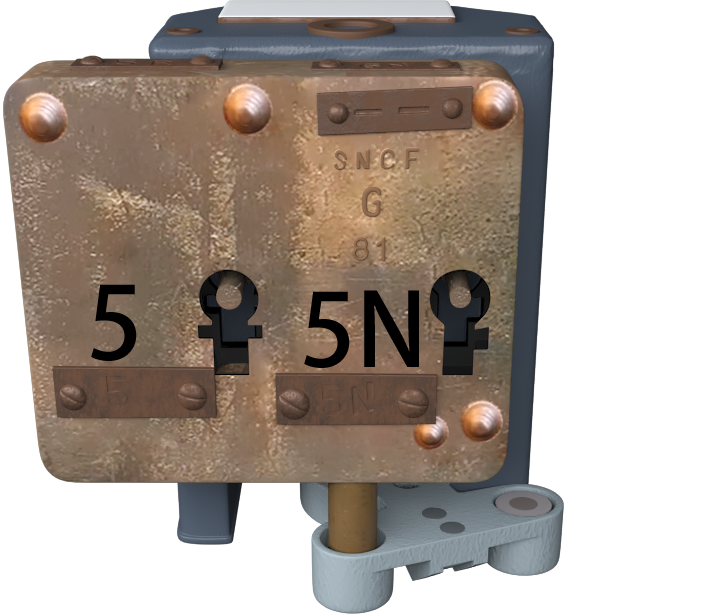
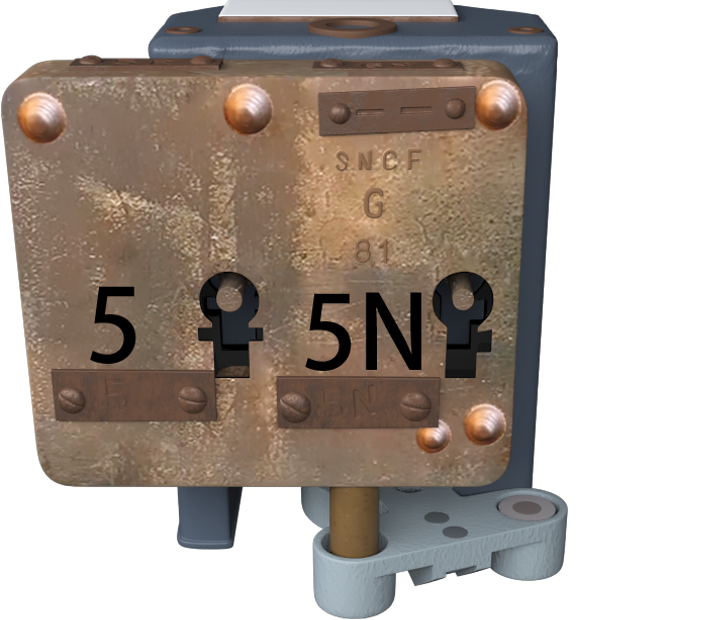
Constraints on rotating keys, lever/holder image upgrades

diff --git a/root/src/js/config/holderConfig.js b/root/src/js/config/holderConfig.js
@@ -1,5 +1,69 @@
 var holderLockStateMap;
 var exactKeyMap;
+var holderLockStateImageMap;
+var holderUnlockStateImageMap;
+var defaultHolderSourceMap;
+var switchedHolderSourceMap;
+
+function defaultHolderImageSetup(){
+    defaultHolderSourceMap = new Map();
+    defaultHolderSourceMap.set('upperL3KeyHolderAN', 'assets/PNG/AN_Left_Unlocked.png');
+    defaultHolderSourceMap.set('upperL4KeyHolderAN', 'assets/PNG/AN_Left_Unlocked.png');
+    defaultHolderSourceMap.set('upperL5KeyHolder', 'assets/PNG/5_5N_Right_Unlocked.png');
+    defaultHolderSourceMap.set('upperL6KeyHolder5', 'assets/PNG/5_Left_Unlocked.png');
+    defaultHolderSourceMap.set('lowerL2KeyHolderAN', 'assets/PNG/A1_F_Left_Unlocked.png');
+    defaultHolderSourceMap.set('lowerL3KeyHolder', 'assets/PNG/C111_V3_F_Left_Unlocked.png');
+    defaultHolderSourceMap.set('lowerL4KeyHolder', 'assets/PNG/C111_V1_F_Left_Unlocked.png');
+    defaultHolderSourceMap.set('lowerL5KeyHolder', 'assets/PNG/Ag5_D_Right_Unlocked.png');
+    defaultHolderSourceMap.set('lowerL6KeyHolder6N', 'assets/PNG/V6_L_Left_Unlocked.png');
+    defaultHolderSourceMap.set('upperL7KeyHolder5', '');
+}
+
+function switchedHolderImageSetup(){
+    switchedHolderSourceMap = new Map();
+    switchedHolderSourceMap.set('upperL3KeyHolderAN', 'assets/PNG/AN_Right_Unlocked.png');
+    switchedHolderSourceMap.set('upperL4KeyHolderAN', 'assets/PNG/AN_Right_Unlocked.png');
+    switchedHolderSourceMap.set('upperL5KeyHolder', 'assets/PNG/5_5N_Left_Unlocked.png');
+    switchedHolderSourceMap.set('upperL6KeyHolder5', 'assets/PNG/5_Right_Unlocked.png');
+    switchedHolderSourceMap.set('lowerL2KeyHolderAN', 'assets/PNG/A1_O_Right_Unlocked.png');
+    switchedHolderSourceMap.set('lowerL3KeyHolder', 'assets/PNG/C111_V3_O_Right_Unlocked.png');
+    switchedHolderSourceMap.set('lowerL4KeyHolder', 'assets/PNG/C111_V1_O_Right_Unlocked.png');
+    switchedHolderSourceMap.set('lowerL5KeyHolder', 'assets/PNG/Ag5_G_Left_Unlocked.png');
+    switchedHolderSourceMap.set('lowerL6KeyHolder6N', 'assets/PNG/V6_R_Right_Unlocked.png');
+    switchedHolderSourceMap.set('upperL7KeyHolder5', '');
+}
+
+function setupHolderLockStateImage(){
+    console.log('Holder Lock State Image Map Setup Begins');
+    holderLockStateImageMap = new Map();
+    holderLockStateImageMap.set('upperL3KeyHolderAN', 'assets/PNG/AN_Right_Locked.png');
+    holderLockStateImageMap.set('upperL4KeyHolderAN', 'assets/PNG/AN_Right_Locked.png');
+    holderLockStateImageMap.set('upperL5KeyHolder', 'assets/PNG/5_5N_Right_Locked.png');
+    holderLockStateImageMap.set('upperL6KeyHolder5', 'assets/PNG/5_Right_Locked.png');
+    holderLockStateImageMap.set('lowerL2KeyHolderAN', 'assets/PNG/A1_F_Left_Locked.png');
+    holderLockStateImageMap.set('lowerL3KeyHolder', 'assets/PNG/C111_V3_F_Left_Locked.png');
+    holderLockStateImageMap.set('lowerL4KeyHolder', 'assets/PNG/C111_V1_F_Left_Locked.png');
+    holderLockStateImageMap.set('lowerL5KeyHolder', 'assets/PNG/Ag5_G_Left_Locked.png');
+    holderLockStateImageMap.set('lowerL6KeyHolder6N', 'assets/PNG/V6_L_Left_Locked.png');
+    holderLockStateImageMap.set('upperL7KeyHolder5', '');
+    console.log('Holder Lock State Image Map Setup Ends');
+}
+
+function setupHolderUnlockStateImage() {
+    console.log('Holder Unlock State Map Setup Begins');
+    holderUnlockStateImageMap = new Map();
+    holderUnlockStateImageMap.set('upperL3KeyHolderAN', 'assets/PNG/AN_Right_Unlocked.png');
+    holderUnlockStateImageMap.set('upperL4KeyHolderAN', 'assets/PNG/AN_Right_Unlocked.png');
+    holderUnlockStateImageMap.set('upperL5KeyHolder', 'assets/PNG/5_5N_Right_Unlocked.png');
+    holderUnlockStateImageMap.set('upperL6KeyHolder5', 'assets/PNG/5_Right_Unlocked.png');
+    holderUnlockStateImageMap.set('lowerL2KeyHolderAN', 'assets/PNG/A1_F_Left_Unlocked.png');
+    holderUnlockStateImageMap.set('lowerL3KeyHolder', 'assets/PNG/C111_V3_F_Left_Unlocked.png');
+    holderUnlockStateImageMap.set('lowerL4KeyHolder', 'assets/PNG/C111_V1_F_Left_Unlocked.png');
+    holderUnlockStateImageMap.set('lowerL5KeyHolder', 'assets/PNG/Ag5_G_Left_Unlocked.png');
+    holderUnlockStateImageMap.set('lowerL6KeyHolder6N', 'assets/PNG/V6_L_Left_Unlocked.png');
+    holderUnlockStateImageMap.set('upperL7KeyHolder5', '');
+    console.log('Holder Unlock State Map Setup Ends');
+}
 
 function setupDefaultHolderLockState() {
     console.log('Holder Lock State Map Setup Begins');

diff --git a/root/src/Main.html b/root/src/Main.html
@@ -340,17 +340,17 @@
         <div id="levercontainer" class="container-fluid">
             <div id="leverRow" class="row justify-content-center" style="background-color: white;">
                 <div id="lever1ContainerAuA" class="col-2 container-fluid">
-                    <img id="lowerL1" onclick="changeLeverPosition('lever1AuA')" src="assets/PNG/Au_A_A.png" class="customWidth1 col-12 mx-auto d-block">
+                    <img id="lowerL1" src="assets/PNG/Au_A_A.png" class="customWidth1 col-12 mx-auto d-block">
                 </div>
                 <div id="lever2ContainerA1" class="col-2 container-fluid">
-                    <img id="lowerL2KeyHolderAN" onclick="changeLeverPosition('lever2A1')" src="assets/PNG/A1_F.png" class="customWidth1 col-12 mx-auto d-block"
+                    <img id="lowerL2KeyHolderAN" onclick="changeLeverPosition('lever2A1')" src="assets/PNG/A1_F_Left_Locked.png" class="customWidth1 col-12 mx-auto d-block"
                             ondrop="dragDrop(event)" ondragover="allowDrop(event)"> 
                     <img id="lowerL2KeyAN" src="assets/PNG/1_H_3.png" class="img-fluid" 
                             ondragstart="dragStart(event)"
                             onclick="rotateKey(event)">
                 </div>
                 <div id="lever3ContainerC111" class="col-2 container-fluid">
-                    <img id="lowerL3KeyHolder" onclick="changeLeverPosition('lever3C111')" src="assets/PNG/C111_V3_F.png" class="customWidth1 col-12 mx-auto d-block"
+                    <img id="lowerL3KeyHolder" onclick="changeLeverPosition('lever3C111')" src="assets/PNG/C111_V3_F_Left_Locked.png" class="customWidth1 col-12 mx-auto d-block"
                             ondrop="dragDrop(event)" ondragover="allowDrop(event)">
                     <img id="lowerL3Key5R" src="assets/PNG/2_F_5.png" class="img-fluid" 
                             ondragstart="dragStart(event)"
@@ -360,7 +360,7 @@
                         onclick="rotateKey(event)">
                 </div>
                 <div id="lever4ContainerC111" class="col-2 container-fluid">
-                    <img id="lowerL4KeyHolder" onclick="changeLeverPosition('lever4C111')" src="assets/PNG/C111_V1_F.png" class="customWidth1 col-12 mx-auto d-block"
+                    <img id="lowerL4KeyHolder" onclick="changeLeverPosition('lever4C111')" src="assets/PNG/C111_V1_F_Left_Locked.png" class="customWidth1 col-12 mx-auto d-block"
                             ondrop="dragDrop(event)" ondragover="allowDrop(event)">
                     <img id="lowerL4Key5N" src="assets/PNG/1_D_5.png" class="img-fluid" 
                             ondragstart="dragStart(event)"
@@ -370,7 +370,7 @@
                             onclick="rotateKey(event)">
                 </div>
                 <div id="lever5ContainerAg5" class="col-2 container-fluid">
-                    <img id="lowerL5KeyHolder" onclick="changeLeverPosition('lever5Ag5')" src="assets/PNG/Ag5_D.png" class="customWidth1 col-12 mx-auto d-block"
+                    <img id="lowerL5KeyHolder" onclick="changeLeverPosition('lever5Ag5')" src="assets/PNG/Ag5_D_Right_Unlocked.png" class="customWidth1 col-12 mx-auto d-block"
                             ondrop="dragDrop(event)" ondragover="allowDrop(event)">  
                     <img id="lowerL5Key5" src="assets/PNG/1_J_1.png" class="img-fluid" 
                             ondragstart="dragStart(event)"
@@ -380,7 +380,7 @@
                             onclick="rotateKey(event)">    
                 </div>
                 <div id="lever6ContainerV6" class="col-2 container-fluid">
-                    <img id="lowerL6KeyHolder6N" onclick="changeLeverPosition('lever6V6')" src="assets/PNG/V6_L.png" class="customWidth1 col-12 mx-auto d-block"
+                    <img id="lowerL6KeyHolder6N" onclick="changeLeverPosition('lever6V6')" src="assets/PNG/V6_L_Left_Locked.png" class="customWidth1 col-12 mx-auto d-block"
                             ondrop="dragDrop(event)" ondragover="allowDrop(event)">
                     <img id="lowerL6Key6N" src="assets/PNG/3_J_5.png" class="img-fluid" 
                             ondragstart="dragStart(event)"

diff --git a/root/src/js/keyFunctions.js b/root/src/js/keyFunctions.js
@@ -41,19 +41,26 @@ function rotateAndEnableKey(keyId){
     * */
 
     // Check if you can lock this holder. i.e., the respective lever's other holder needs to be in unlocked state to lock current holder
-    rotateElement(keyId,75);
-
-    keyAvailabilityMap.set(keyId,true);
-    addClass(keyId,'dragEnabled');
     var holderId = getHolderIdForKey(keyId);
     if(holderId == UNAVAILABLE){
         console.log('Key ' + keyId + ' is not available in any holders');
     } else{    
+        //How to check if the current holder is in its right(upper) or left(lower) position?
+        var holderIdLower = holderId.toLowerCase();
+        var holderImageLower = getSourceImage(holderId).toLowerCase();
+        if((holderIdLower.includes('upper') && holderImageLower.includes('right')) || (holderIdLower.includes('lower') && holderImageLower.includes('left'))){
+            rotateElement(keyId,75);
+            keyAvailabilityMap.set(keyId,true);
+            addClass(keyId,'dragEnabled');
+        } else{
+            launchModal(`This key cannot be rotated in this position. Move the lever to lock this lock.`);
+            console.log(`Key ${keyId} cannot be rotated in this position. Move the lever to lock this lock.`);
+        }
         if(checkHolderKeysUnlockStatus(holderId)){
             console.log('Few keys are draggable. Holder ' + holderId + ' can be locked.');
             lockHolder(holderId);
         } else{
-            console.log('Holder ' + holderId + ' cannot be locked. None of the keys for this holder are in available state.');
+            console.log(`Holder ${holderId} cannot be locked. None of the keys for this holder are in available state.`);
         }
     }
 }
@@ -62,13 +69,13 @@ function rotateAndDisableKey(keyId){
     /** This method rotates the key to horizontal position, disables the draggability of a key and sets the availability as false in keyAvailabilityMap.
     * Also unlocks the holder if circumstances are met.
     * */
-    rotateElement(keyId,180);
-    keyAvailabilityMap.set(keyId,false); 
-    removeClass(keyId,'dragEnabled');
     var holderId = getHolderIdForKey(keyId);
     if(holderId == UNAVAILABLE){
         console.log('Key ' + keyId + ' is not available in any holders');
     }else{    
+        rotateElement(keyId,180);
+        keyAvailabilityMap.set(keyId,false); 
+        removeClass(keyId,'dragEnabled');
         if(checkHolderKeysLockStatus(holderId)){
             console.log('No keys are available for dragging. Holder ' + holderId + 'can be unlocked.');
             unlockHolder(holderId);

diff --git a/root/src/js/config/leverConfig.js b/root/src/js/config/leverConfig.js
@@ -31,22 +31,22 @@ function initializeDefaultLeverStates(){
 function defaultLeverImageSetup(){
     leverDefaultSourceMap = new Map();
     leverDefaultSourceMap.set('lever1AuA','assets/PNG/Au_A_I.png');
-    leverDefaultSourceMap.set('lever2A1','assets/PNG/A1_F.png');
-    leverDefaultSourceMap.set('lever3C111','assets/PNG/C111_V3_F.png');
-    leverDefaultSourceMap.set('lever4C111','assets/PNG/C111_V1_F.png');
-    leverDefaultSourceMap.set('lever5Ag5','assets/PNG/Ag5_D.png');
-    leverDefaultSourceMap.set('lever6V6','assets/PNG/V6_L.png');
+    leverDefaultSourceMap.set('lever2A1','assets/PNG/A1_F_Left_Locked.png');
+    leverDefaultSourceMap.set('lever3C111','assets/PNG/C111_V3_F_Left_Locked.png');
+    leverDefaultSourceMap.set('lever4C111','assets/PNG/C111_V1_F_Left_Locked.png');
+    leverDefaultSourceMap.set('lever5Ag5','assets/PNG/Ag5_D_Right_Unlocked.png');
+    leverDefaultSourceMap.set('lever6V6','assets/PNG/V6_L_Left_Locked.png');
     leverDefaultSourceMap.set('leverSideTrack','');
 }
 
 function switchedLeverImageSetup(){
     leverSwitchedSourceMap = new Map();
     leverSwitchedSourceMap.set('lever1AuA','assets/PNG/Au_A_A.png');
-    leverSwitchedSourceMap.set('lever2A1','assets/PNG/A1_O.png');
-    leverSwitchedSourceMap.set('lever3C111','assets/PNG/C111_V3_O.png');
-    leverSwitchedSourceMap.set('lever4C111','assets/PNG/C111_V1_O.png');
-    leverSwitchedSourceMap.set('lever5Ag5','assets/PNG/Ag5_G.png');
-    leverSwitchedSourceMap.set('lever6V6','assets/PNG/V6_R.png');
+    leverSwitchedSourceMap.set('lever2A1','assets/PNG/A1_O_Right_Unlocked.png');
+    leverSwitchedSourceMap.set('lever3C111','assets/PNG/C111_V3_O_Right_Unlocked.png');
+    leverSwitchedSourceMap.set('lever4C111','assets/PNG/C111_V1_O_Right_Unlocked.png');
+    leverSwitchedSourceMap.set('lever5Ag5','assets/PNG/Ag5_G_Left_Unlocked.png');
+    leverSwitchedSourceMap.set('lever6V6','assets/PNG/V6_R_Right_Unlocked.png');
     leverSwitchedSourceMap.set('leverSideTrack','');
 }
 

diff --git a/root/src/js/leverFunctions.js b/root/src/js/leverFunctions.js
@@ -22,15 +22,26 @@ function changeLeverPosition(leverId){
     if(checkLeverLockStatus(leverId)){
         console.log('Lever ' + leverId + ' is locked. Unable to switch.');
     } else{
+        var holderArray = leverHolderMap.get(leverId);
         if(leverStateMap.get(leverId) == true){
             var switchImageSource = leverSwitchedSourceMap.get(leverId);
             leverStateMap.set(leverId,false);
             changeSourceImage(leverNameMap.get(leverId),switchImageSource);
+            if(holderArray.length > 0){
+              for(i=0; i<holderArray.length; i++){
+                changeSourceImage(holderArray[i],switchedHolderSourceMap.get(holderArray[i]));
+              }
+            }
             leverOnAction(leverId);
         } else {
             var defaultImageSource = leverDefaultSourceMap.get(leverId);
             leverStateMap.set(leverId,true);
             changeSourceImage(leverNameMap.get(leverId),defaultImageSource);
+            if(holderArray.length > 0){
+              for(i=0; i<holderArray.length; i++){
+                changeSourceImage(holderArray[i],defaultHolderSourceMap.get(holderArray[i]));
+              }
+            }
             leverOffAction(leverId);
         }
     }
@@ -113,7 +124,7 @@ function turnLever2A1On(){
     changeSourceImage('led-a1','assets/PNG/A1_ON_State.png');
     ledStateMap.set('led-a1','Orange');
     trainAppear();
-    launchModal("Signal enabled without selecting proper track");
+    // launchModal("Signal enabled without selecting proper track");
 }
 
 function turnLever2A1Off(){

diff --git a/root/src/js/holderFunctions.js b/root/src/js/holderFunctions.js
@@ -39,6 +39,9 @@ function lockHolder(holderId){
   /* This method locks the holder by setting the state in holder lock state map. */
   /** To add logic for checking lever position before locking the holder */
   holderLockStateMap.set(holderId,true);
+  if(holderId != 'upperL7KeyHolder5'){
+    changeSourceImage(holderId, holderLockStateImageMap.get(holderId));
+  }
   console.log('Holder ' + holderId + ' is locked.');
 }
 
@@ -48,6 +51,8 @@ function unlockHolder(holderId){
   holderLockStateMap.set(holderId,false);
   if(holderId == 'upperL7KeyHolder5'){
     leftTrackChange();
+  } else{
+    changeSourceImage(holderId,holderUnlockStateImageMap.get(holderId));
   }
   console.log('Holder ' + holderId + ' is unlocked.');
 }

diff --git a/root/src/js/utils.js b/root/src/js/utils.js
@@ -53,6 +53,10 @@ function changeSourceImage(imageId,newImagePath){
   document.getElementById(imageId).src = newImagePath;
 }
 
+function getSourceImage(imageId){
+  return document.getElementById(imageId).src;
+}
+
 function getNumericAndDot(stringValue){
   var data =  parseFloat(stringValue.replace(/[^\d.]/g,''));
   console.log('Conversion result: ' + data);

diff --git a/root/src/js/config/config.js b/root/src/js/config/config.js
@@ -20,6 +20,10 @@ function initializeData() {
   defaultTrainPositionSetup();
   defaultTrainLocationsSetup();
   leverNameSetup();
+  setupHolderLockStateImage();
+  setupHolderUnlockStateImage();
+  defaultHolderImageSetup();
+  switchedHolderImageSetup();
   console.log('INITIALIZATION COMPLETE');
 }
 
